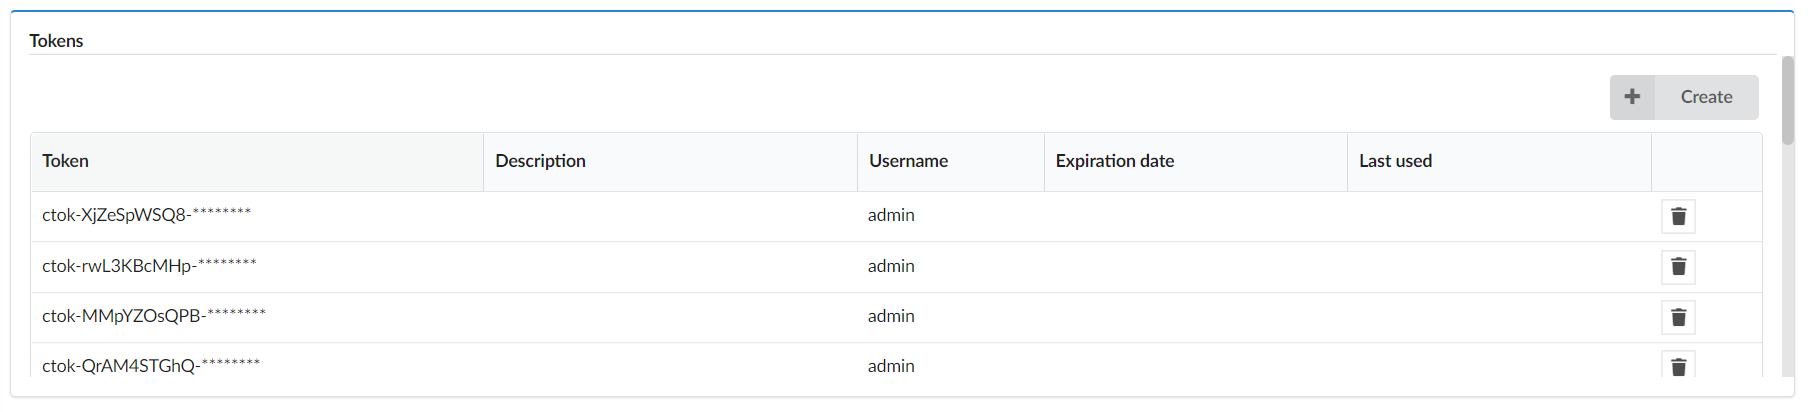
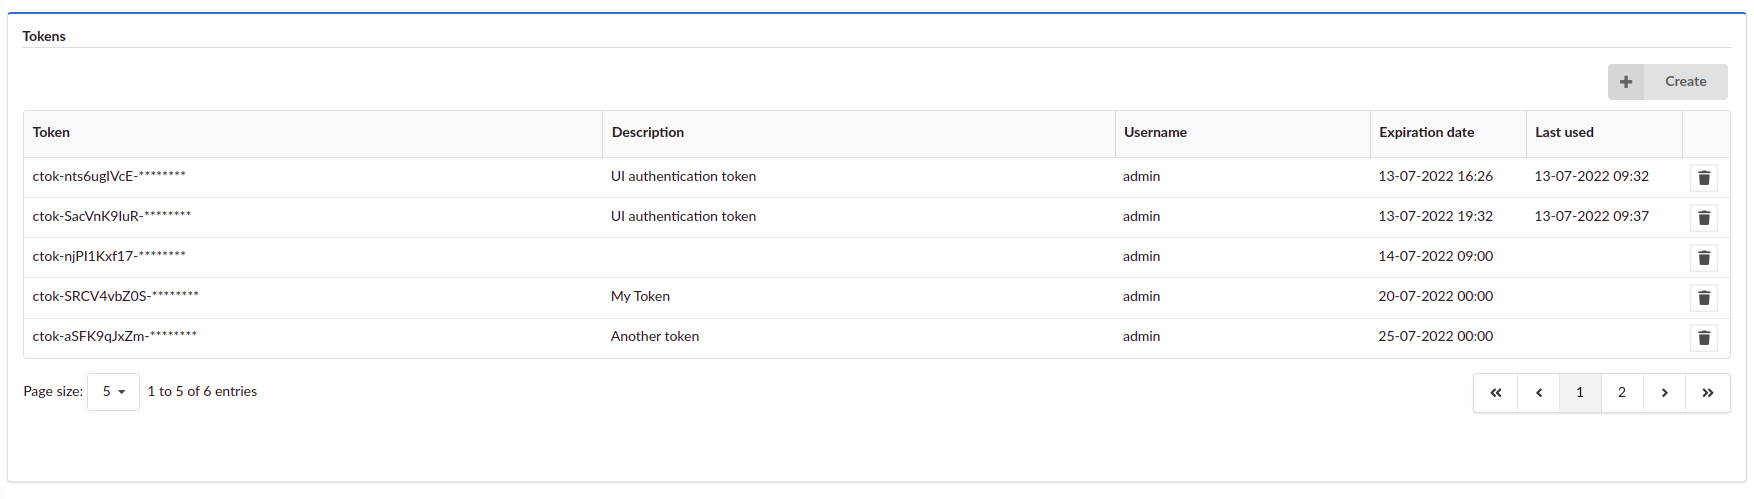
Update Tokens widget description page

diff --git a/content/working_with/console/widgets/tokens.md b/content/working_with/console/widgets/tokens.md
@@ -13,20 +13,18 @@ Displays the list of tokens and enables their management.
 
 The widget displays the following information regarding each of the tokens:
 
-
 - **Token** - Value of the token, masked with asterisks.
-
 - **Description** - More details about the token.
 - **Username** - Username of the user who created the token (only visible for admin users).
-
+- **Expiration date** - Date of the token expiration.
 - **Last used** - Date of last token usage.
 
 
 #### Creating a token
 
 1. Click **Create** in the Tokens widget.
-
 2. (Optional) Provide a description for the token.
+2. (Optional) Provide an expiration date for the token.
 3. Click **Create** button.
 4. (Optional) Show or copy the token value
    Bear in mind that after closing the `Create token` modal you won't be able to show or copy the token value.
@@ -34,12 +32,10 @@ The widget displays the following information regarding each of the tokens:
 
 #### Deleting a token
 
-
 1. Click the Delete icon ![Delete icon](/images/ui/icons/delete-icon.png) on the far right.
 2. Click **Yes**.
 
 ## Settings
 
-- `Refresh time interval` - Time interval in which the widget’s data will be refreshed, in seconds. Default: 30 seconds.
-
+- `Refresh time interval` - Time interval in which the widget’s data will be refreshed, in seconds. Default: 10 seconds.
 - `Show expired tokens` - Defines if expired tokens should be listed.
